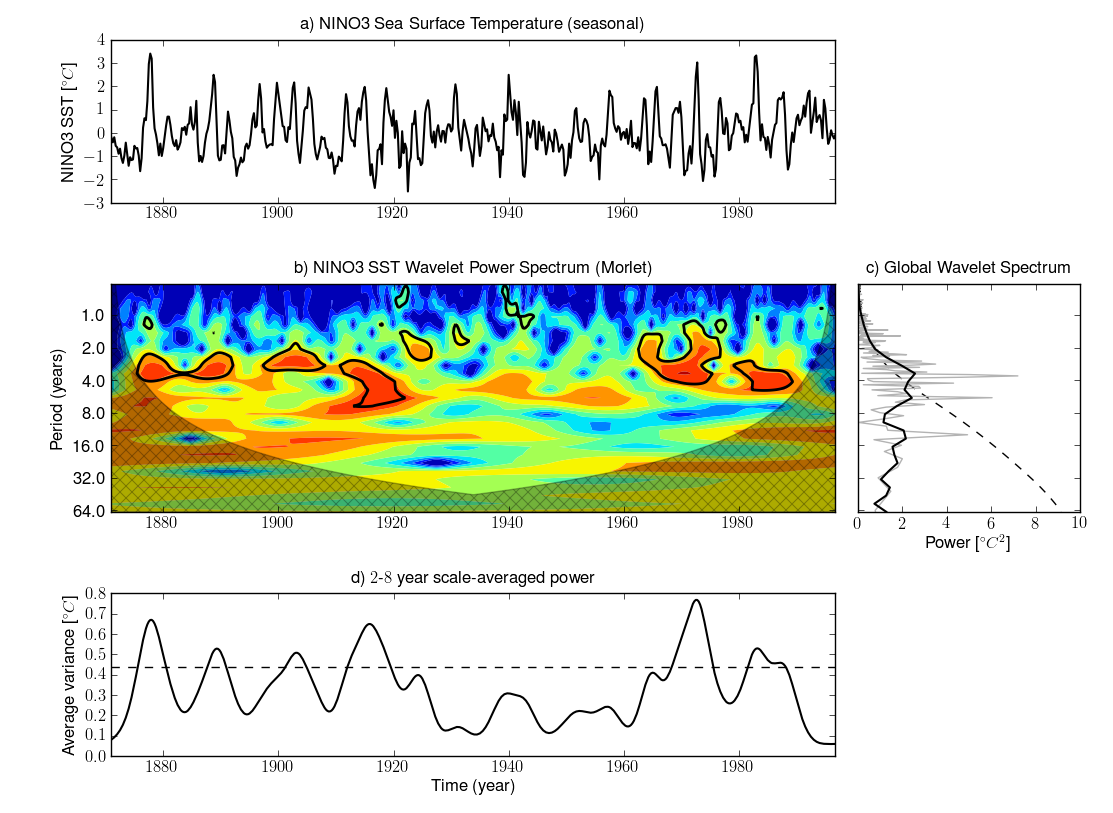
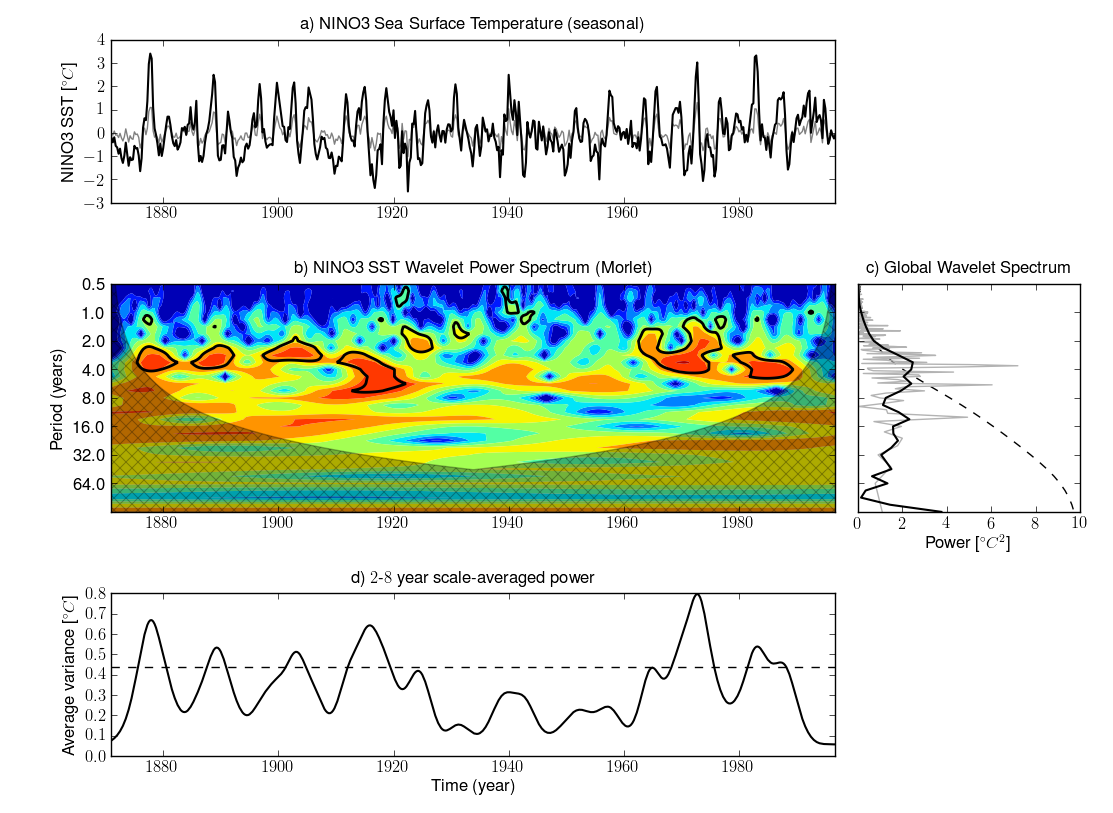
Now with inverse wavelet transform

diff --git a/wavelet.py b/wavelet.py
@@ -21,6 +21,7 @@ AUTHOR
     email: sebastian@regeirk.com
 
 REVISION
+    3 (2011-04-30 19:48 -3000)
     2 (2011-04-28 17:57 -0300)
     1 (2010-12-24 21:59 -0300)
 
@@ -36,7 +37,7 @@ __version__ = '$Revision: 2 $'
 # $Source$
 
 from numpy import (arange, ceil, concatenate, conjugate, cos, exp, isnan, log,
-                   log2, pi, prod, sqrt, zeros, polyval)
+                   log2, ones, pi, prod, real, sqrt, zeros, polyval)
 from numpy.fft import fft, ifft, fftfreq
 from numpy.lib.polynomial import polyval
 from pylab import find
@@ -245,7 +246,7 @@ def cwt(signal, dt, dj=0.25, s0=-1, J=-1, wavelet=Morlet()):
     """Continuous wavelet transform of the signal at specified scales.
 
     PARAMETERS
-        signal (array_like) :
+        signal (array like) :
             Input signal array
         dt (float) :
             Sample spacing.
@@ -263,27 +264,27 @@ def cwt(signal, dt, dj=0.25, s0=-1, J=-1, wavelet=Morlet()):
             Mother wavelet class. Default is Morlet()
 
     RETURNS
-        W (array_like) :
+        W (array like) :
             Wavelet transform according to the selected mother wavelet.
             Has (J+1) x N dimensions.
-        scales (array_like) :
-            Vector of scale indices given by s0 * 2**(j * dj),
+        sj (array like) :
+            Vector of scale indices given by sj = s0 * 2**(j * dj),
             j={0, 1, ..., J}.
-        freqs (array_like) :
+        freqs (array like) :
             Vector of Fourier frequencies (in 1 / time units) that
             corresponds to the wavelet scales.
-        coi (array_like) :
+        coi (array like) :
             Returns the cone of influence, wich is a vector of N points
             containing the maximum Fourier period of useful information
             at that particular time. Periods greater than those are
             subject to edge effetcs.
-        fft (array_like) :
+        fft (array like) :
             Normalized fast fourier transform of the input signal.
-        fft_freqs (array_like):
+        fft_freqs (array like):
             Fourier frequencies (in 1/time units) for the calculated
             FFT spectrum.
 
-    EXAMPLES
+    EXAMPLE
         mother = wavelet.Morlet(6.)
         wave, scales, freqs, coi, fft, fftfreqs = wavelet.cwt(var,
             0.25, 0.25, 0.5, 28, mother)
@@ -296,20 +297,20 @@ def cwt(signal, dt, dj=0.25, s0=-1, J=-1, wavelet=Morlet()):
     signal_ft = fft(signal, N)                    # Signal fourier transform
     ftfreqs = 2 * pi * fftfreq(N, dt)             # Fourier angular frequencies
 
-    scales = s0 * 2. ** (arange(0, J+1) * dj)     # The scales
-    freqs = 1. / (wavelet.flambda() * scales)     # As of Mallat 1999
+    sj = s0 * 2. ** (arange(0, J+1) * dj)         # The scales
+    freqs = 1. / (wavelet.flambda() * sj)         # As of Mallat 1999
 
     # Creates an empty wavlet transform matrix and fills it for every discrete
     # scale using the convolution theorem.
-    W = zeros((len(scales), N), 'complex')
-    for n, s in enumerate(scales):
+    W = zeros((len(sj), N), 'complex')
+    for n, s in enumerate(sj):
         psi_ft_bar = (s * ftfreqs[1] * N) ** .5 * wavelet.psi_ft(s * ftfreqs)
         W[n, :] = ifft(signal_ft * psi_ft_bar, N)
 
     # Checks for NaN in transform results and removes them from the scales,
     # frequencies and wavelet transform.
     sel = ~isnan(W).all(axis=1)
-    scales = scales[sel]
+    sj = sj[sel]
     freqs = freqs[sel]
     W = W[sel, :]
 
@@ -319,14 +320,49 @@ def cwt(signal, dt, dj=0.25, s0=-1, J=-1, wavelet=Morlet()):
     coi = wavelet.flambda() * wavelet.coi() * dt * (concatenate((coi,
           coi[::-1])) + 1E-5)
     #
-    return (W[:, :n0], scales, freqs, coi, signal_ft[1:N/2] / N ** 0.5,
+    return (W[:, :n0], sj, freqs, coi, signal_ft[1:N/2] / N ** 0.5,
             ftfreqs[1:N/2] / (2. * pi))
 
 
-def icwt(transform, scales, dt=1.0, wavelet=Morlet()):
-    """Tentative inverse continuous wavelet transform."""
-    for n, s in enumerate(scales):
-        psi_ft_bar = conjugate(wavelet.psi_ft(s * ftfreqs))
+def icwt(W, sj, dt, dj=0.25, w=Morlet()):
+    """Inverse continuous wavelet transform.
+
+    PARAMETERS
+        W (array like):
+            Wavelet transform, the result of the cwt function.
+        sj (array like):
+            Vector of scale indices as returned by the cwt function.
+        dt (float) :
+            Sample spacing.
+        dj (float, optional) :
+            Spacing between discrete scales as used in the cwt
+            function. Default value is 0.25.
+        w (class, optional) :
+            Mother wavelet class. Default is Morlet()
+
+    RETURNS
+        iW (array like) :
+            Inverse wavelet transform.
+
+    EXAMPLE
+        mother = wavelet.Morlet(6.)
+        wave, scales, freqs, coi, fft, fftfreqs = wavelet.cwt(var,
+            0.25, 0.25, 0.5, 28, mother)
+        iwave = wavelet.icwt(wave, scales, 0.25, 0.25, mother)
+
+    """
+    a, b = W.shape
+    c = sj.size
+    if a == c:
+        sj = (ones([b, 1]) * sj).transpose()
+    elif b == c:
+        sj = ones([a, 1]) * sj
+    else:
+        raise Warning, 'Input array dimensions do not match.'
+
+    # As of Torrence and Compo (1998), eq. (11)
+    iW = dj * sqrt(dt) / w.cdelta * w.psi(0) * (real(W) / sj).sum(axis=0)
+    return iW
 
 
 def significance(signal, dt, scales, sigma_test=0, alpha=0.,
@@ -335,13 +371,13 @@ def significance(signal, dt, scales, sigma_test=0, alpha=0.,
     Significance testing for the onde dimensional wavelet transform.
 
     PARAMETERS
-        signal (array_like or float) :
+        signal (array like or float) :
             Input signal array. If a float number is given, then the
             variance is assumed to have this value. If an array is
             given, then its variance is automatically computed.
         dt (float, optional) :
             Sample spacing. Default is 1.0.
-        scales (array_like) :
+        scales (array like) :
             Vector of scale indices given returned by cwt function.
         sigma_test (int, optional) :
             Sets the type of significance test to be performed.
@@ -373,9 +409,9 @@ def significance(signal, dt, scales, sigma_test=0, alpha=0.,
             Mother wavelet class. Default is Morlet().
 
     RETURNS
-        signif (array_like) :
+        signif (array like) :
             Significance levels as a function of scale.
-        fft_theor (array_like):
+        fft_theor (array like):
             Theoretical red-noise spectrum as a function of period.
 
     """

diff --git a/sample.py b/sample.py
@@ -34,7 +34,10 @@ __version__ = '$Revision: 2 $'
 
 import numpy
 import pylab
-import wavelet
+try:
+    reload(wavelet)
+except:
+    import wavelet
 
 # This script allows different sample data sets to be analised. Simply comment
 # and uncomment the respective fname, title, label, t0, dt and units variables
@@ -100,6 +103,7 @@ mother = wavelet.Morlet(6.)          # Morlet mother wavelet with wavenumber=6
 # analysis for the chosen data set.
 wave, scales, freqs, coi, fft, fftfreqs = wavelet.cwt(var, dt, dj, s0, J,
                                                       mother)
+iwave = wavelet.icwt(wave, scales, dt, dj, mother)
 power = (abs(wave)) ** 2             # Normalized wavelet power spectrum
 fft_power = std2 * abs(fft) ** 2     # FFT power spectrum
 period = 1. / freqs
@@ -145,6 +149,7 @@ fig = pylab.figure(**figprops)
 
 # First subplot, the original time series anomaly.
 ax = pylab.axes([0.1, 0.75, 0.65, 0.2])
+ax.plot(time, iwave, '-', linewidth=1, color=[0.5, 0.5, 0.5])
 ax.plot(time, var, 'k', linewidth=1.5)
 ax.set_title('a) %s' % (title, ))
 if units != '':
